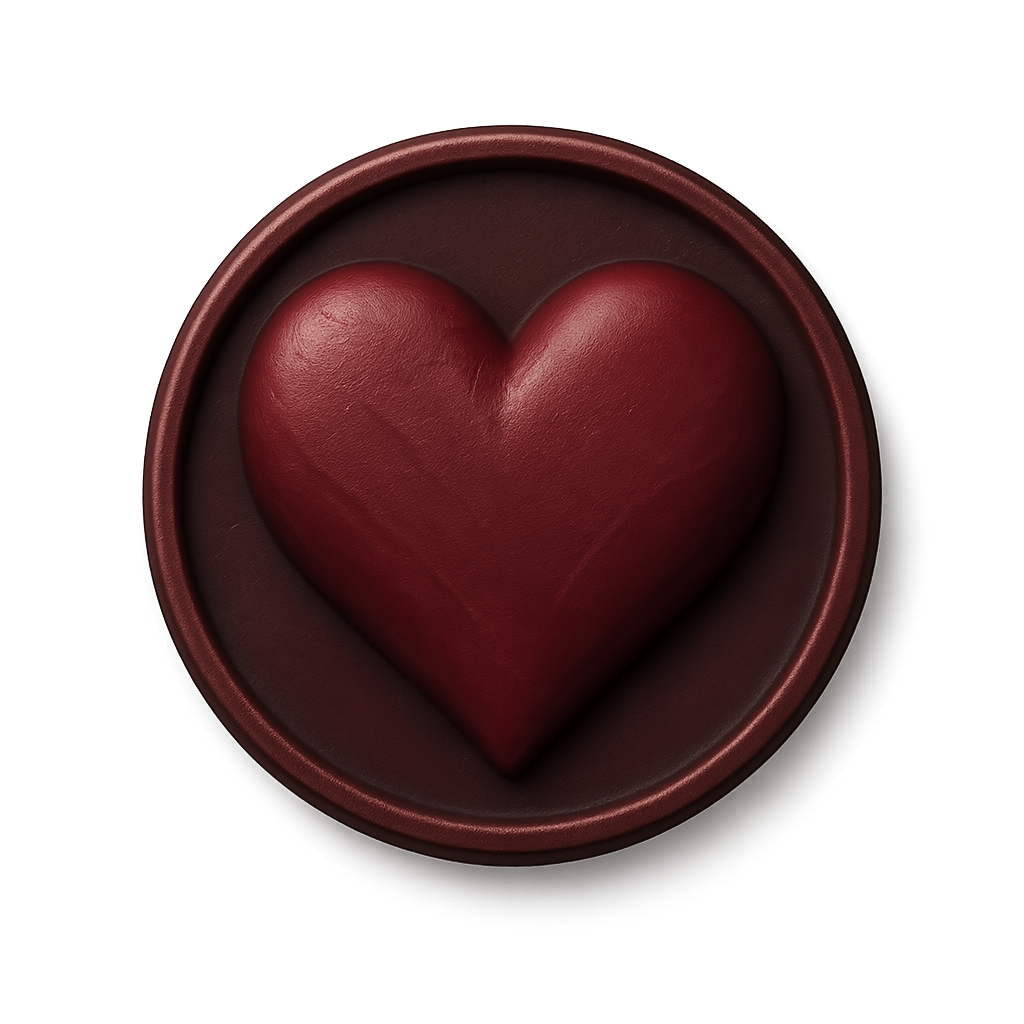
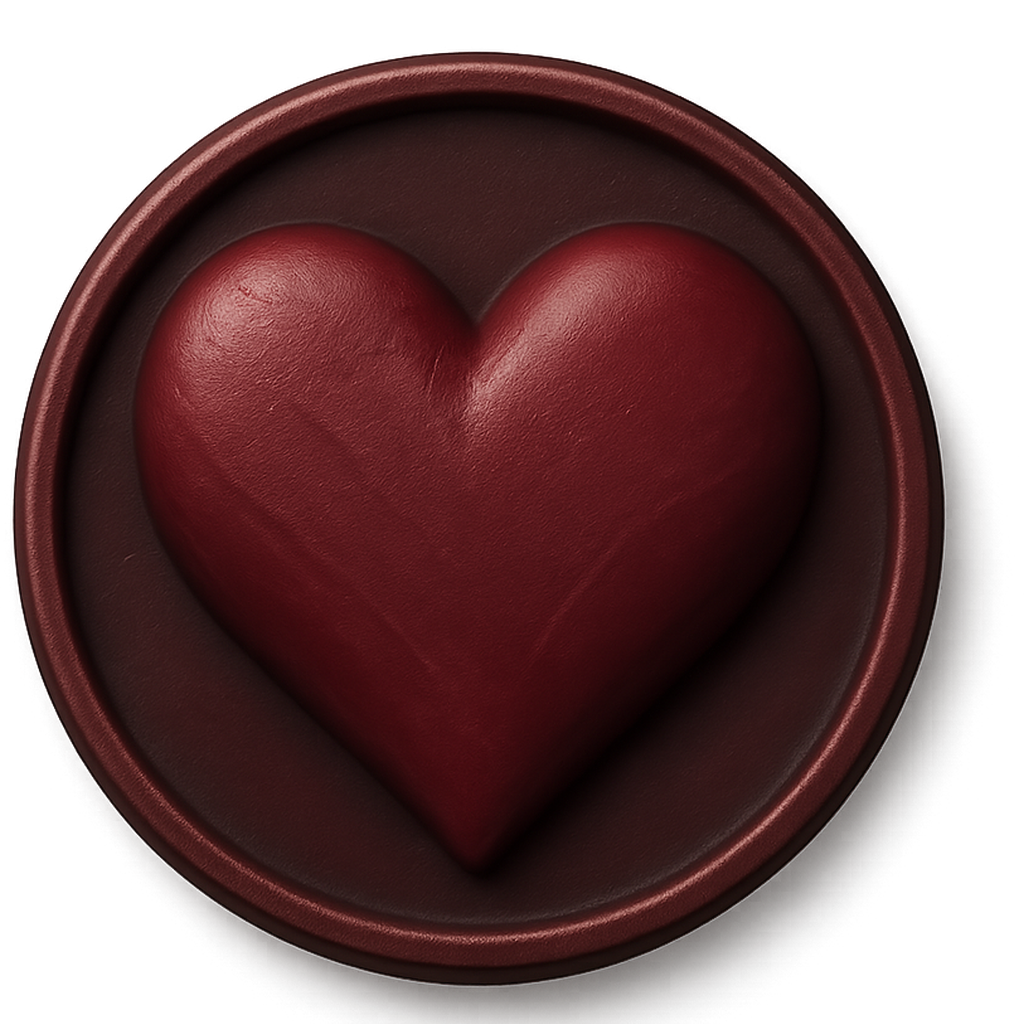
v 1.1

diff --git a/scripts/generate_tts_save.py b/scripts/generate_tts_save.py
@@ -27,12 +27,21 @@ BOARD_IMG = f"{BASE}/imgs/board/plataforma.png"
 #                       que no hace falta mantener el aspect ratio de la imagen)
 PLATFORM_Z_SHIFT   = 17.0
 PLATFORM_Y         = 3.5
-PLATFORM_Y_LIFT    = 0.2
+PLATFORM_Y_LIFT    = 0.6
 PLATFORM_SCALE_X   = 16.0
 PLATFORM_SCALE_Z   = 8.0
 PLATFORM_CENTER_X  = 0.0
 PLATFORM_CENTER_Z  = 9.0 + PLATFORM_Z_SHIFT   # promedio de las filas de supply (5, 9, 13) + shift
 SUPPLY_Y = PLATFORM_Y + PLATFORM_Y_LIFT
+
+# ── Asientos (Hands) ─────────────────────────────────────────────────────────
+# Juego para 4 jugadores máximo. Se dejan solo estos 4 colores habilitados
+# (DisableUnused=True apaga el resto) y los 4 se ubican del mismo lado de la
+# mesa ("abajo"), lado opuesto a la plataforma de supply.
+# HAND_Z es de ajuste manual, igual que las constantes de la plataforma.
+HAND_COLORS = ["Red", "Brown", "White", "Orange"]
+HAND_XS     = [-12.0, -4.0, 4.0, 12.0]
+HAND_Z      = -20.0
 
 _n = [0]
 def guid():
@@ -137,21 +146,22 @@ def make_vida(face_url, back_url):
     }
 
 PAWN_COLORS = [
-    ("Bordo",        (0.45, 0.08, 0.12)),
-    ("Verde oscuro", (0.05, 0.25, 0.15)),
-    ("Azul marino",  (0.05, 0.10, 0.35)),
-    ("Gris oscuro",  (0.18, 0.18, 0.18)),
+    # nombre, ColorDiffuse RGB, MaterialIndex (0=White,1=Red,2=Orange,3=Yellow,4=Green,5=Blue,6=Purple,7=Pink,8=Black)
+    ("Bordo",        (0.45, 0.08, 0.12), 1),
+    ("Verde oscuro", (0.05, 0.25, 0.15), 4),
+    ("Azul marino",  (0.05, 0.10, 0.35), 5),
+    ("Gris oscuro",  (0.18, 0.18, 0.18), 8),
 ]
 
-def make_pawn(nickname, rgb):
-    """PlayerPawn (Figurine) con tinte custom vía ColorDiffuse sobre MaterialIndex 0 (blanco)."""
+def make_pawn(nickname, rgb, material_index):
+    """PlayerPawn (Figurine). El color real lo define MaterialIndex; ColorDiffuse lo afina/oscurece."""
     return {
         "Name": "PlayerPawn",
         "Nickname": nickname,
         "GUID": guid(),
         "Transform": tr(ry=180),
         "ColorDiffuse": {"r": rgb[0], "g": rgb[1], "b": rgb[2]},
-        "MaterialIndex": 0
+        "MaterialIndex": material_index
     }
 
 def make_generar_bag(x, z):
@@ -161,7 +171,7 @@ def make_generar_bag(x, z):
         '    click_function="doGenerar",\n'
         '    function_owner=self,\n'
         '    label="Generar Mapa",\n'
-        '    position={0,0.1,1.4},\n'
+        '    position={0,1.2,2.5},\n'
         '    rotation={0,0,0},\n'
         '    width=1300, height=320, font_size=130,\n'
         '    color={1,1,1},\n'
@@ -174,13 +184,13 @@ def make_generar_bag(x, z):
         'end\n'
     )
     return {
-        "Name": "Infinite_Bag",
+        "Name": "Bag",
         "Nickname": "Mapa",
         "GUID": guid(),
         "Transform": tr(x, SUPPLY_Y, z, ry=180, sx=0.7, sy=0.7, sz=0.7),
         "ColorDiffuse": {"r": 0.2, "g": 0.45, "b": 0.15},
         "LuaScript": lua,
-        "ContainedObjects": [make_pawn(name, rgb) for name, rgb in PAWN_COLORS]
+        "ContainedObjects": [make_pawn(name, rgb, mi) for name, rgb, mi in PAWN_COLORS]
     }
 
 def make_bag(nickname, content, x, z):
@@ -387,6 +397,15 @@ save = {
     "Tags": [], "Gravity": 0.5, "PlayArea": 1.0,
     "Table": "Table_RPG", "Sky": "Sky_Museum",
     "Note": "", "Rules": "", "XmlUI": "", "LuaScript": LUA_SCRIPT, "LuaScriptState": "",
+    "Hands": {
+        "Enable": True,
+        "DisableUnused": True,
+        "Hiding": "Default",
+        "HandTransforms": [
+            {"Color": color, "Transform": tr(x, 1, HAND_Z)}
+            for color, x in zip(HAND_COLORS, HAND_XS)
+        ]
+    },
     "ObjectStates": objects
 }
 with open(out, "w", encoding="utf-8") as f:

diff --git a/README.md b/README.md
@@ -93,7 +93,11 @@ Todo ese "supply" (mazos, hexágonos de repuesto, bolsas) se apoya sobre una **p
 
 La plataforma queda fija (`"Locked": true`): no tiene físicas, no se puede arrastrar ni empujar. Si hace falta reposicionarla a mano desde TTS, primero hay que desbloquearla (click derecho > Lock/Unlock).
 
-La bolsa verde "Generar Mapa" contiene 4 `PlayerPawn` (Bordo, Verde oscuro, Azul marino, Gris oscuro) definidos en `PAWN_COLORS`, con colores custom vía `ColorDiffuse`.
+La mesa principal usa el preset `"Table": "Table_RPG"` (paño rojo). Se probó `Table_Custom` + `TableURL` con la textura de madera (quedaba más grande, pero no gustó el resultado visual) y se volvió atrás.
+
+La bolsa verde "Generar Mapa" (`Name: "Bag"`, **no** `Infinite_Bag` — ese tipo clona copias idénticas de un solo objeto) contiene 4 `PlayerPawn` distintos definidos en `PAWN_COLORS`: nombre, `ColorDiffuse` (RGB) y `MaterialIndex` (0=White, 1=Red, 2=Orange, 3=Yellow, 4=Green, 5=Blue, 6=Purple, 7=Pink, 8=Black — el color real en TTS lo define principalmente el `MaterialIndex`, `ColorDiffuse` solo lo afina). Colores actuales: Bordo (índice Red), Verde oscuro, Azul marino, Gris oscuro (índice Black).
+
+**Asientos (`Hands`):** el juego es para 4 jugadores máximo. Se dejan habilitados solo 4 colores (`HAND_COLORS = ["Red", "Brown", "White", "Orange"]`, con `DisableUnused: true` para apagar el resto) y los 4 se ubican del mismo lado de la mesa ("abajo", lado opuesto a la plataforma de supply). `HAND_XS` / `HAND_Z` son de ajuste manual, igual que las constantes de la plataforma.
 
 Todas las URLs de imágenes apuntan al repo en GitHub (`raw.githubusercontent.com`), por lo que hay que subir los cambios de `imgs/` antes de regenerar o usar el save.
 